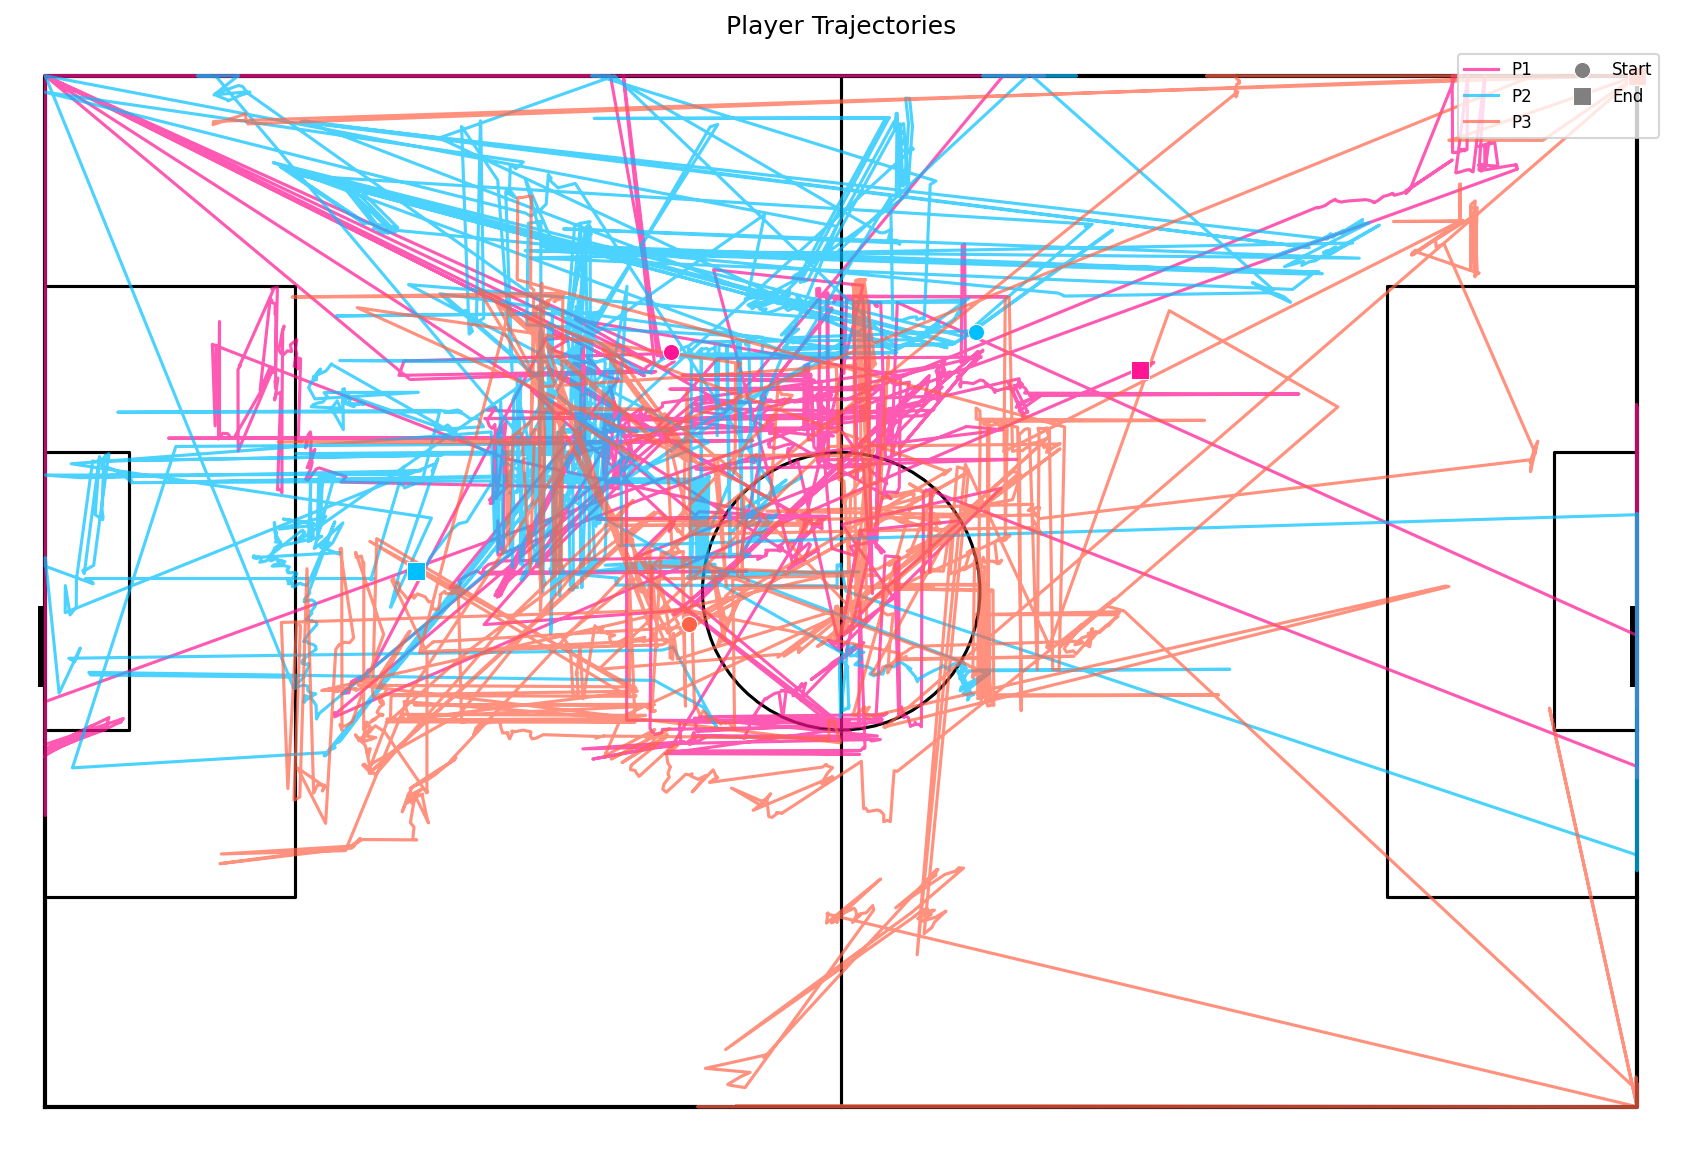
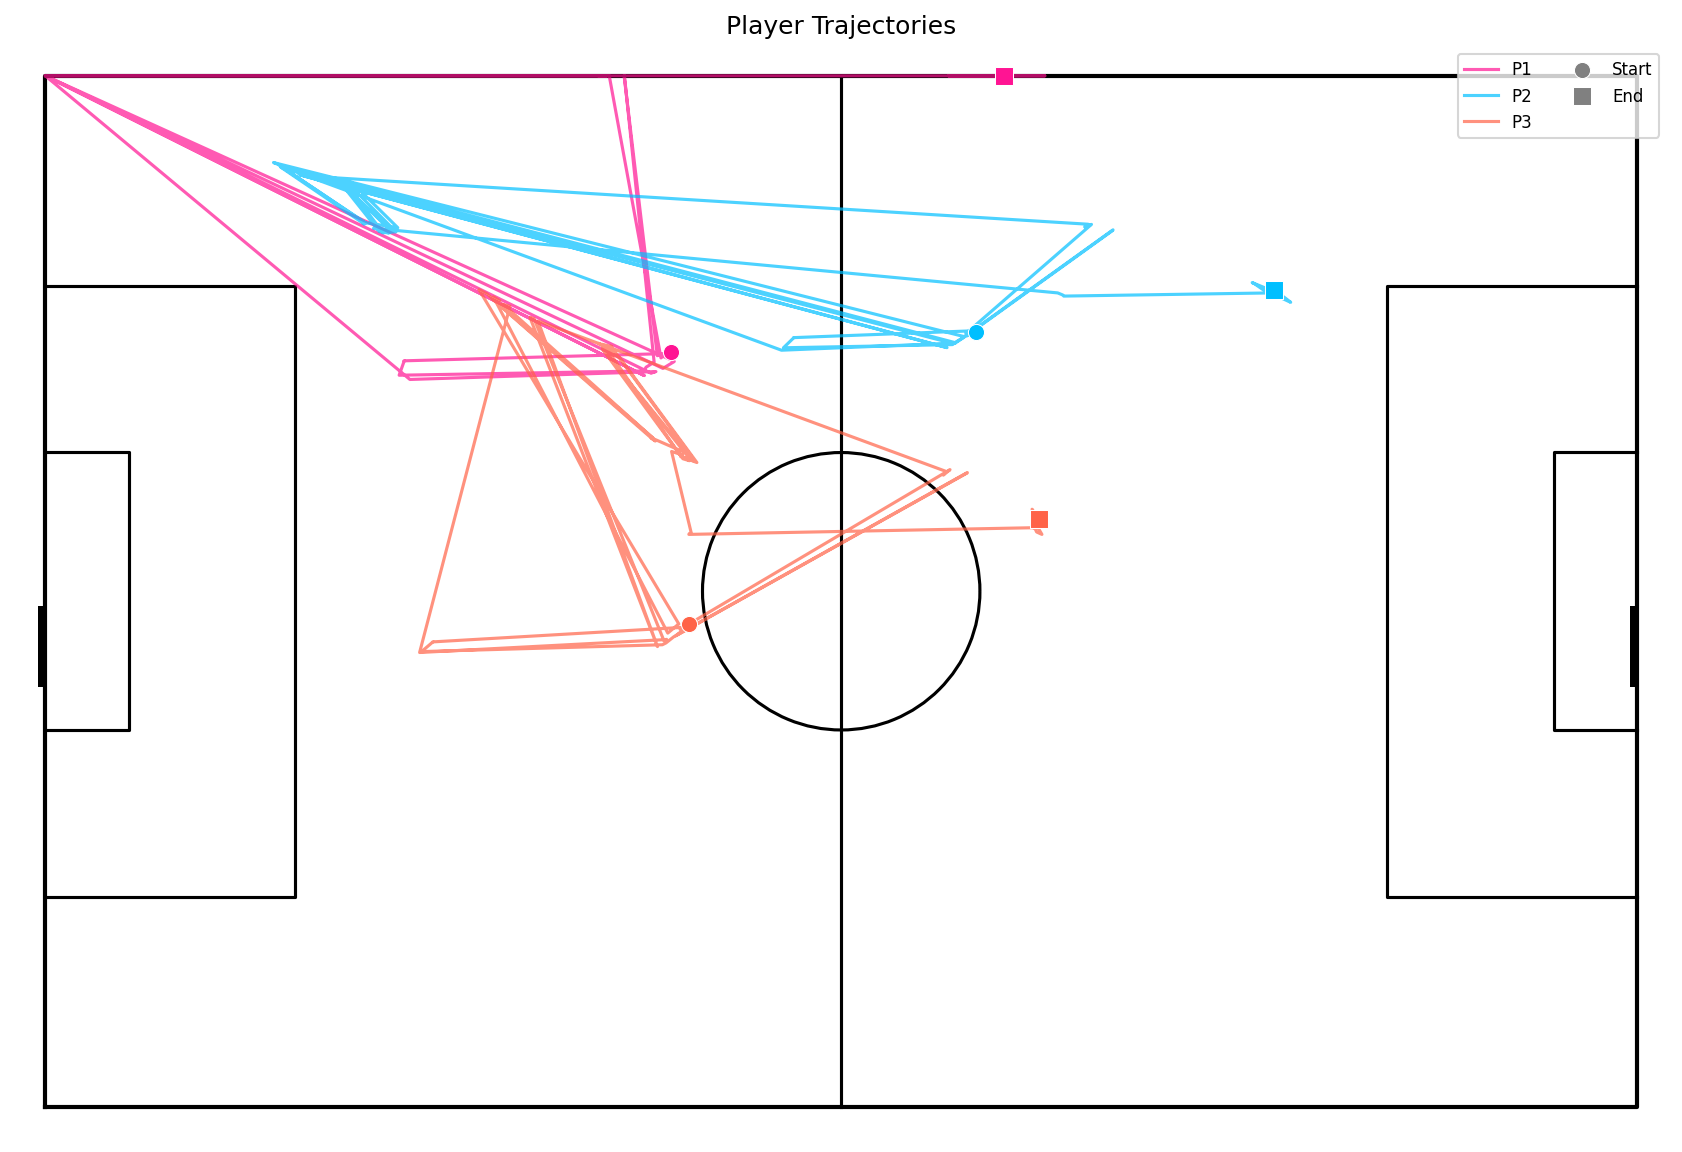
fix: 热力图加colorbar + 球场绘制Arc参数修复

diff --git a/cMatchdata_clean/csv2json2.py b/cMatchdata_clean/csv2json2.py
@@ -54,7 +54,7 @@ def build_samples(
                 "x": float(row["画面X"]),
                 "y": float(row["画面Y"]),
             },
-            "bbox": None,
+            "bbox": "NULL",
             "track_id": int(row["球员ID"]),
             "team": team,
             "field": {
@@ -110,14 +110,14 @@ def build_samples(
 
         left_goal = {
             "pixel": {"x": left_goal_pixel[0], "y": left_goal_pixel[1]},
-            "bbox": None,
+            "bbox": "NULL",
             "track_id": -1,
             "team": left_team,
             "field": {"x": left_goal_field[0], "y": left_goal_field[1]},
         }
         right_goal = {
             "pixel": {"x": right_goal_pixel[0], "y": right_goal_pixel[1]},
-            "bbox": None,
+            "bbox": "NULL",
             "track_id": -2,
             "team": right_team,
             "field": {"x": right_goal_field[0], "y": right_goal_field[1]},